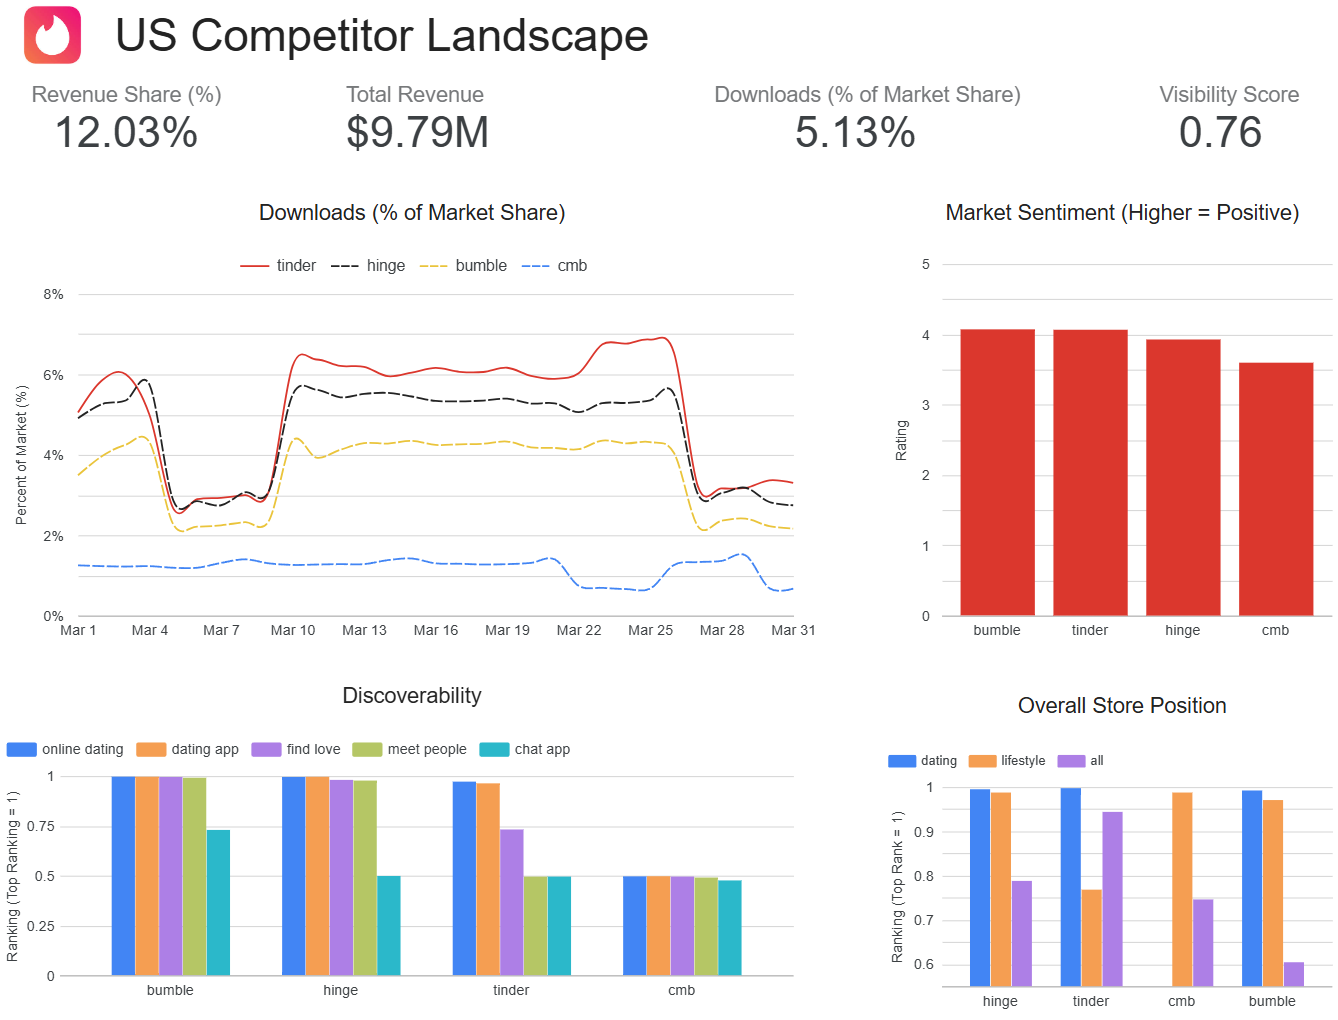
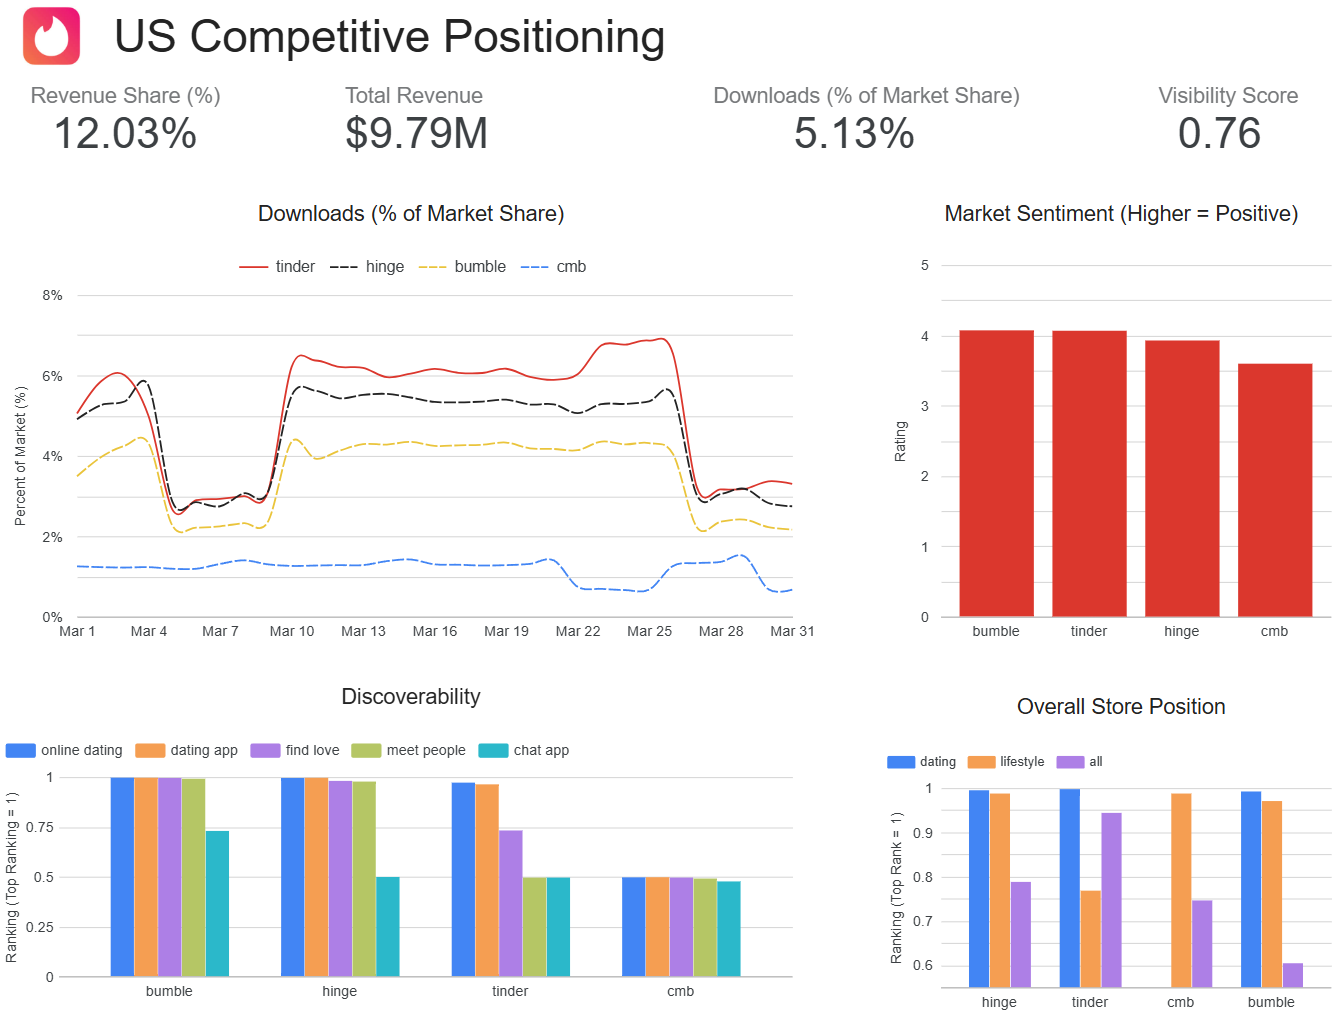
updating readme and requirements.txt

diff --git a/README.md b/README.md
@@ -1,6 +1,6 @@
 # Tinder AppTweak Analytics
 
-## Problem Statement
+## Analytic Focus
 
 1. Competitive Landscape
 
@@ -52,9 +52,235 @@ continuously updated without manual intervention.
 
 ## Analytic Outputs
 
-1. [Competitive Landscape](https://datastudio.google.com/s/kTUdLrQ0nMw)
+### 1. [Competitive Positioning](https://datastudio.google.com/s/kTUdLrQ0nMw)
 
 ![Data Studio Dashboard](images/competitive_landscape.png)
+
+#### Key Insight
+
+Tinder dominates in scale and category leadership, but is losing semantic positioning on intent-driven
+keywords to Hinge and Bumble, indicating a gap between acquisition volume and user intent alignment.
+
+#### Supporting Data
+
+Market Position & Scale
+
+Tinder:
+
+• 12%+ of total dating app revenue
+• 9.8M revenue
+• 5% of total market downloads
+• Leads all competitors in total downloads
+• 0.76 visibility score
+
+Tinder is the clear market leader in scale.
+
+User Sentiment:
+
+• 2nd highest rating
+• Bumble leads slightly is user sentiment
+
+Tinder has strong positive sentiment, but not category-leading satisfaction. Polarization user ratings
+indicates partial mismatch between user expectations and user experiences.
+
+Keyword & Discoverability Performance
+
+• Tinder ranks highest on more generic terms such as "online dating" and "dating app."
+• Tinder lags on more intent-driven search terms such as “find love”, “meet people”, “chat app”
+
+Competitors outperform Tinder in relationship-oriented and social intent queries.
+
+Category Rankings
+
+• #1 in Dating category
+• Top rank in US “All” category (vs competitors)
+• Tinder ranks lowest among all four apps in lifestyle.
+• CMB ranks highest in Lifestyle
+
+Tinder is the ranked 1 in dating, but lower on more intent driven searches.
+
+Tinder dominates:
+
+• downloads
+• revenue
+• core "dating app" keywords
+
+But loses ground in:
+
+• Emotionally-driven search intent
+• Relationship-oriented positioning
+
+Suggests a brand perception gap:
+
+• Tinder = casual / broad
+• Hinge/Bumble = intentional / relationship-focused
+
+Competitors beat Tinder on semantic positioning. Tinder is not positioned as a "lifestyle" or 
+"relationship experience" app. Opportunity to expand perception beyond "dating utility."
+
+4. Strong but Not Leading User Satisfaction
+Slightly behind Bumble in rating
+Combined with keyword gaps:
+
+Suggests:
+
+users may prefer competitor experience for deeper connections
+Tinder wins acquisition, not necessarily preference
+#### Actionable Recommendations
+Keyword & ASO Strategy
+Expand keyword coverage into:
+“find love”
+“meet people”
+relationship-focused queries
+Rebalance ASO strategy from:
+generic acquisition → intent-driven acquisition
+Product & Brand Positioning
+Test messaging shifts:
+from “dating app” → “connection platform”
+Highlight:
+success stories
+relationship outcomes
+Compete more directly with Hinge/Bumble positioning
+Category Expansion
+Invest in Lifestyle category positioning
+improve ranking signals (engagement, retention)
+align product messaging with lifestyle use cases
+Experience Optimization
+Close rating gap vs Bumble:
+improve onboarding quality
+reduce low-rating drivers (spam, UX friction)
+Focus on high-intent user journeys
+
+#### Conclusion
+
+Tinder leads the market in scale, visibility, and core category dominance, but is edged out by competitors
+in intent-driven keyword performance and perceived relationship value. Bridging this gap through improved
+ASO strategy, refined positioning, and enhanced user experience presents a clear opportunity to strengthen
+both acquisition quality and long-term user value.
+
+### 2. [Localization](https://datastudio.google.com/reporting/895eb4ac-2417-4379-b108-6a6e8045d174)
+
+![Data Studio Dashboard](images/localization.png)
+
+#### Key Insight
+
+While Tinder performs strongly in the US in terms of scale and user satisfaction, there are clear localization
+and efficiency gaps in Japan and Germany. Germany demonstrates strong ranking efficiency despite lower volume,
+while Japan underperforms across rankings and engagement signals, indicating missed localization opportunities.
+
+#### Supporting Data
+
+Market Performance
+
+US:
+
+• Highest downloads and discoverability
+• Strongest share of 5★ ratings
+
+Germany:
+
+• Highest overall ranking in “All” category
+• Lower volume but strong relative performance
+
+Japan:
+
+• Significantly lower rankings in “All” category
+• Weakest overall positioning
+
+User Sentiment Patterns
+
+• Average rating: 3.78
+• 5★ ratings dominate in the US
+• Across all countries 1★ ratings are the second most frequent
+
+The disparity in ratings indicates polarized user sentiment. 
+
+Discoverability & Ranking
+
+• US leads in discoverability
+• Germany achieves top ranking efficiency
+• Japan shows low visibility and ranking performance
+
+There is a disparity in the keyword optimization strategy across localizations. US has the highest
+discoverability, while both DE and JP, but especially JP, lags.
+
+KPI Context
+
+Avg Rank: 1.82
+Revenue: 12M+
+Installs: 500K+
+
+#### Interpretation
+
+This analysis highlights three structural dynamics:
+
+1. US = Scale + Strong Product-Market Fit
+
+High downloads + strong 5★ ratings suggest:
+
+• Effective acquisition
+• Strong user experience alignment
+
+2. Germany = High Efficiency Market
+
+Top rankings despite lower volume indicate:
+
+• Effective keyword positioning
+• Strong relative competitiveness
+
+This provides a potential blueprint for scaling efficiently in other markets.
+
+3. Japan = Localization Gap
+
+Low rankings and weaker sentiment suggest:
+
+• Cultural mismatch in product experience
+• Insufficient localized ASO strategy
+• Stronger local competition
+
+4. Cross-Market Risk: Polarized Ratings
+
+High frequency of 1★ ratings across all regions indicates:
+
+• Inconsistent user experience
+• Friction points (onboarding, monetization, or expectations)
+
+#### Actionable Recommendations
+
+1. Localization Strategy
+
+Deep-dive JP market:
+
+• Localize keywords (native language focus)
+• Adapt product experience to cultural norms
+• Audit and localize App Store creatives and messaging
+
+2. Growth & ASO Optimization
+
+• Expand keyword coverage beyond English (especially JP)
+• Replicate Germany’s ranking strategy into similar EU markets
+• Focus US strategy on efficiency (conversion/retention), not just scale
+
+3.  Product & Experience Improvements
+
+Analyze 1★ reviews to identify recurring issues
+Improve onboarding and early user experience
+Test localized UX flows to reduce user friction
+
+#### Conclusion
+
+Tinder’s performance is driven by strong scale in the US and efficient ranking in Germany,
+but growth is constrained by localization gaps and inconsistent user experience across markets.
+Addressing these issues—particularly in Japan—represents a key opportunity to improve both
+acquisition efficiency and user satisfaction globally.
+
+## Reusability & Scaling
+
+
+
+## Reflection
+
+
 
 
 
